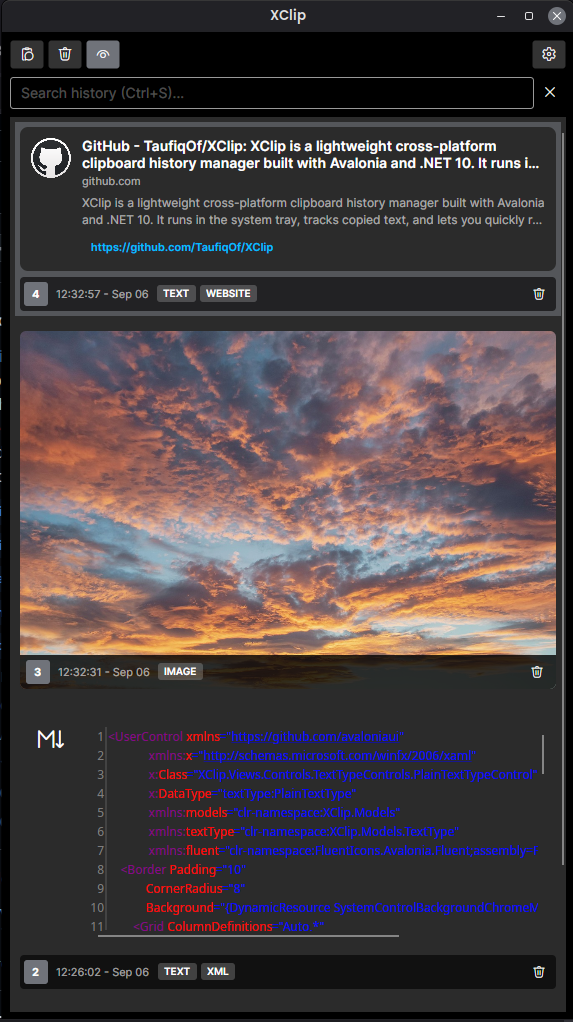
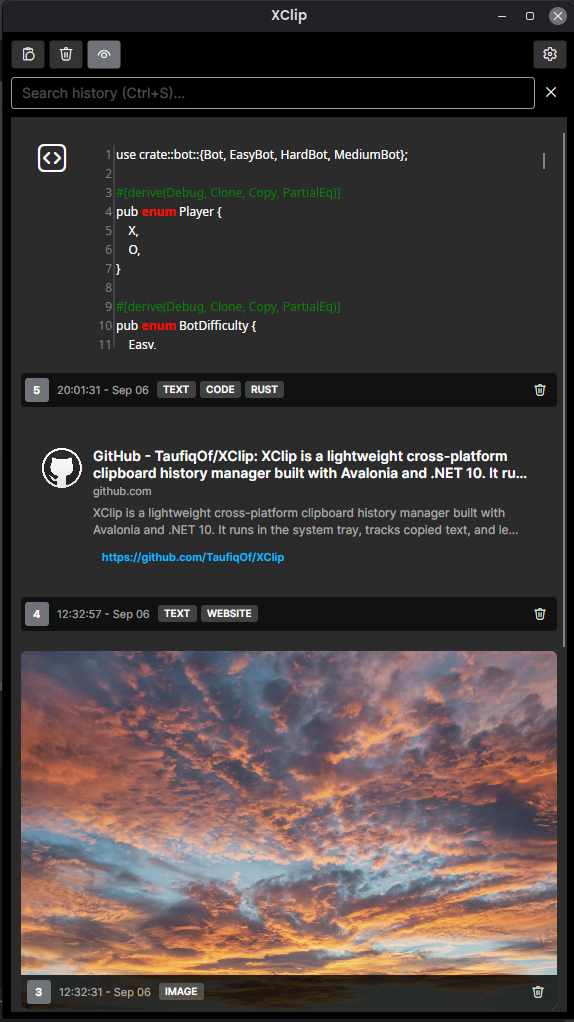
Refactor clipboard data change detection and improve data comparison methods

diff --git a/XClip/Manager/ClipboardManager.cs b/XClip/Manager/ClipboardManager.cs
@@ -1,5 +1,6 @@
 using System;
 using System.Collections.Generic;
+using System.IO;
 using System.Linq;
 using System.Threading.Tasks;
 using Avalonia;
@@ -85,9 +86,9 @@ public static class ClipboardManager
             if (type == null)
                 return;
             if (_lastSignature != null)
-                if(!await HasCheckDataChanged(clipboard, type.Value, _lastSignature))
+                if (!await HasCheckDataChanged(clipboard, type.Value, _lastSignature))
                     return;
-                    
+
             AClipboardItem? item = null;
             item = await GetItemAsync(type.Value);
             if (item == null)
@@ -138,47 +139,38 @@ public static class ClipboardManager
         return item;
     }
 
-    private static async Task<bool> HasCheckDataChanged(IClipboard clipboard, ClipboardDataFormat type, string signature)
+    private static async Task<bool> HasCheckDataChanged(
+        IClipboard clipboard,
+        ClipboardDataFormat type,
+        string signature)
     {
-        var existingItem = ClipboardHistory.FirstOrDefault(q => q.Signature == signature);
-        if(existingItem == null)
-        {
+        var existingItem = ClipboardHistory
+            .FirstOrDefault(q => q.Signature == signature);
+
+        if (existingItem == null)
             return true;
-        }
-        else
-        {
-            if(existingItem.Format != type)
-            {
-                return true;
-            }
-        }
-        if (type == ClipboardDataFormat.Text)
-        {
-            var text = await ClipboardServices[type].GetClipboardData() as string;
-            if (existingItem.Text != text)
-            {
-                return true;
-            }
-        }
-        else if (type == ClipboardDataFormat.Image)
-        {
-            if (existingItem is ImageClipboardItem imageItem)
-            {
-                var bitmap = await ClipboardServices[type].GetClipboardData() as Bitmap;
-                if (bitmap != null && !bitmap.Equals(imageItem.Image))
-                {
-                    return true;
-                }
-            }
-        }
 
-        return false;
+        if (existingItem.Format != type)
+            return true;
+        var data = await ClipboardServices[type].GetClipboardData();
+        if(data == null)
+            return false;
+        return !await ClipboardServices[type].IsDataSame(existingItem, data);
     }
-
-
+    
+    
     public static async Task SetClipboardItemAsync(AClipboardItem targetItem)
     {
-        await ClipboardServices[targetItem.Format].CopyData(targetItem);
+        _lastSignature = targetItem.Signature;
+        Task.Factory.StartNew(async () =>
+        {
+            var clipboard = GetClipboard();
+            if (clipboard != null)
+            {
+                await ClipboardServices[targetItem.Format].CopyData(targetItem);
+            }
+        });
+ 
     }
 
     public static void ClearClipboardHistory()

diff --git a/XClip/Services/ClipboardService/ImageClipboardService.cs b/XClip/Services/ClipboardService/ImageClipboardService.cs
@@ -3,6 +3,7 @@ using System.IO;
 using System.Security.Cryptography;
 using System.Threading.Tasks;
 using Avalonia.Input.Platform;
+using Avalonia.Media.Imaging;
 using XClip.Models;
 using ImageClipboardItem = XClip.Models.TextType.ImageClipboardItem;
 
@@ -62,5 +63,37 @@ internal class ImageClipboardService : AClipboardService
             return null;
 
         return await clipboard.TryGetBitmapAsync();
+    }
+
+    public override async Task<bool> IsDataSame(AClipboardItem existingItem, object data)
+    {
+        var imageData = data as Bitmap;
+        if (imageData == null || existingItem is not ImageClipboardItem imageItem || imageItem.Image == null)
+            return false;
+        return await BitmapsAreEqual(imageItem.Image, imageData);
+    }
+    private static async Task<bool> BitmapsAreEqual(Bitmap a, Bitmap b)
+    {
+        if (a.PixelSize != b.PixelSize)
+            return false;
+
+        if (a.Dpi != b.Dpi)
+            return false;
+
+        var bytesA = await Task.Run(() =>
+        {
+            using var stream = new MemoryStream();
+            a.Save(stream);
+            return stream.ToArray();
+        });
+
+        var bytesB = await Task.Run(() =>
+        {
+            using var stream = new MemoryStream();
+            b.Save(stream);
+            return stream.ToArray();
+        });
+
+        return bytesA.AsSpan().SequenceEqual(bytesB);
     }
 }

diff --git a/XClip/Models/TextType/TextTypeVariants.cs b/XClip/Models/TextType/TextTypeVariants.cs
@@ -215,6 +215,10 @@ public class CodeTextType : ATextType
 
         var trimmed = text.Trim();
 
+        // Reject plain scalar values like "40", "3.14", "true" early.
+        if (Regex.IsMatch(trimmed, @"^(?:[+-]?\d+(?:\.\d+)?|true|false|null)$", RegexOptions.IgnoreCase))
+            return false;
+
         // Very obvious programming constructs.
         if (HasStrongCodePattern(trimmed))
         {
@@ -350,6 +354,10 @@ public class CodeTextType : ATextType
         var fingerprintScore =
             CalculateFingerprintScore(source, definition.Keywords);
 
+        // Parser acceptance alone is too permissive for short/plain text.
+        if (fingerprintScore <= 0)
+            return null;
+
         /*
          * Syntax parsing is the strongest signal.
          *
@@ -446,9 +454,7 @@ public class CodeTextType : ATextType
             }
         }
 
-        // Require at least 30% of keywords to be present for a positive score
-        var score = (double)matches / keywords.Count;
-        return score < 0.30 ? 0 : score;
+        return (double)matches / keywords.Count;
     }
 
     private readonly record struct DetectionResult(

diff --git a/XClip/Models/TextType/JsonTextType.cs b/XClip/Models/TextType/JsonTextType.cs
@@ -19,9 +19,16 @@ public class JsonTextType : ATextType
         if (string.IsNullOrWhiteSpace(text))
             return false;
 
+        var trimmed = text.Trim();
+
+        // Treat only structured JSON as JSON type; scalars are valid JSON,
+        // but they are usually plain text in clipboard usage.
+        if (!(trimmed.StartsWith("{") || trimmed.StartsWith("[")))
+            return false;
+
         try
         {
-            using var _ = JsonDocument.Parse(text.Trim());
+            using var _ = JsonDocument.Parse(trimmed);
             return true;
         }
         catch

diff --git a/XClip/Services/ClipboardService/TextClipboardService.cs b/XClip/Services/ClipboardService/TextClipboardService.cs
@@ -57,6 +57,14 @@ internal class TextClipboardService : AClipboardService
         return text ?? null;
     }
 
+    public override Task<bool> IsDataSame(AClipboardItem existingItem, object data)
+    {
+         var textData = data as string;
+        if (textData == null)
+            return Task.FromResult(false);
+        return Task.FromResult(existingItem.Text == textData);
+    }
+
 
     private static string DisplayText(string text)
     {

diff --git a/XClip/Services/IClipboardService.cs b/XClip/Services/IClipboardService.cs
@@ -20,4 +20,5 @@ internal abstract class AClipboardService
     public abstract Task CreateSignature(AClipboardItem item);
     public abstract Task CopyData(AClipboardItem value);
     public abstract Task<object?> GetClipboardData();
+    public abstract Task<bool> IsDataSame(AClipboardItem existingItem, object data);
 }

diff --git a/readme.md b/readme.md
@@ -20,7 +20,7 @@ It runs in the system tray, keeps your recent copied text items, and lets you qu
 - Light/dark tray and window icon switching based on theme
 - Limited support for wayland (Linux)
 - Image and Text clipboard supported
-- Code, XML, JSON, and Markdown text type recognition
+- Code,Programming Languages, XML, JSON, and Markdown text type recognition
 - Shows Metadata on links copied to clipboard (title, description, icon, etc.)
 
 ## Screenshots
